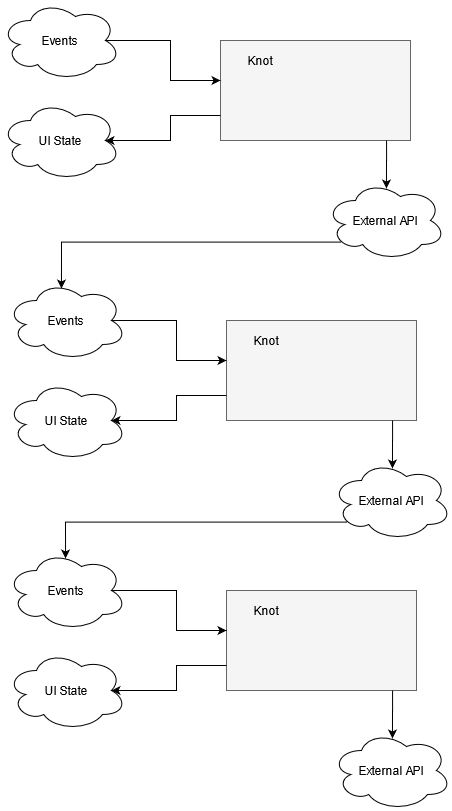
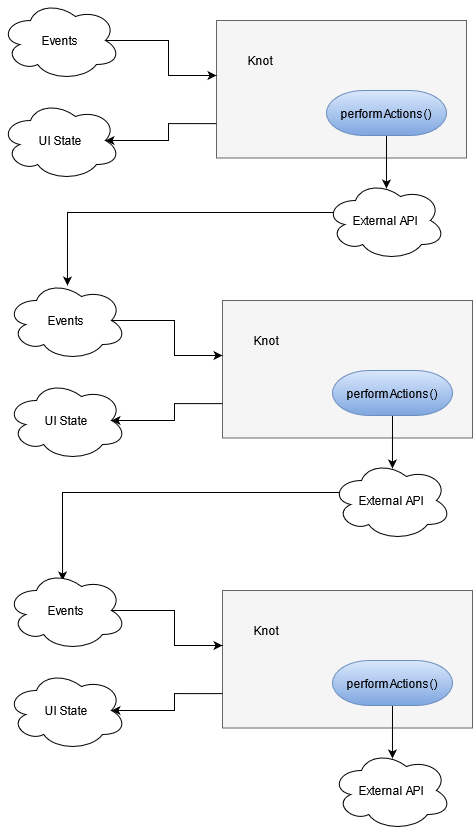
README.md

diff --git a/README.md b/README.md
@@ -143,9 +143,9 @@ If your knot becomes complex and you want to improve its readability and maintai
 
 # Scalability
 
-Through 'Actions' single knots can be combined togetheк
+Through 'performActions()' part single knots can be combined together.
 
-<img src="docs/scalable_knot_diagram.png" width="452" />
+<img src="docs/scalable_knot_diagram.png" width="473" />
 
 # Why Reduce?
 
